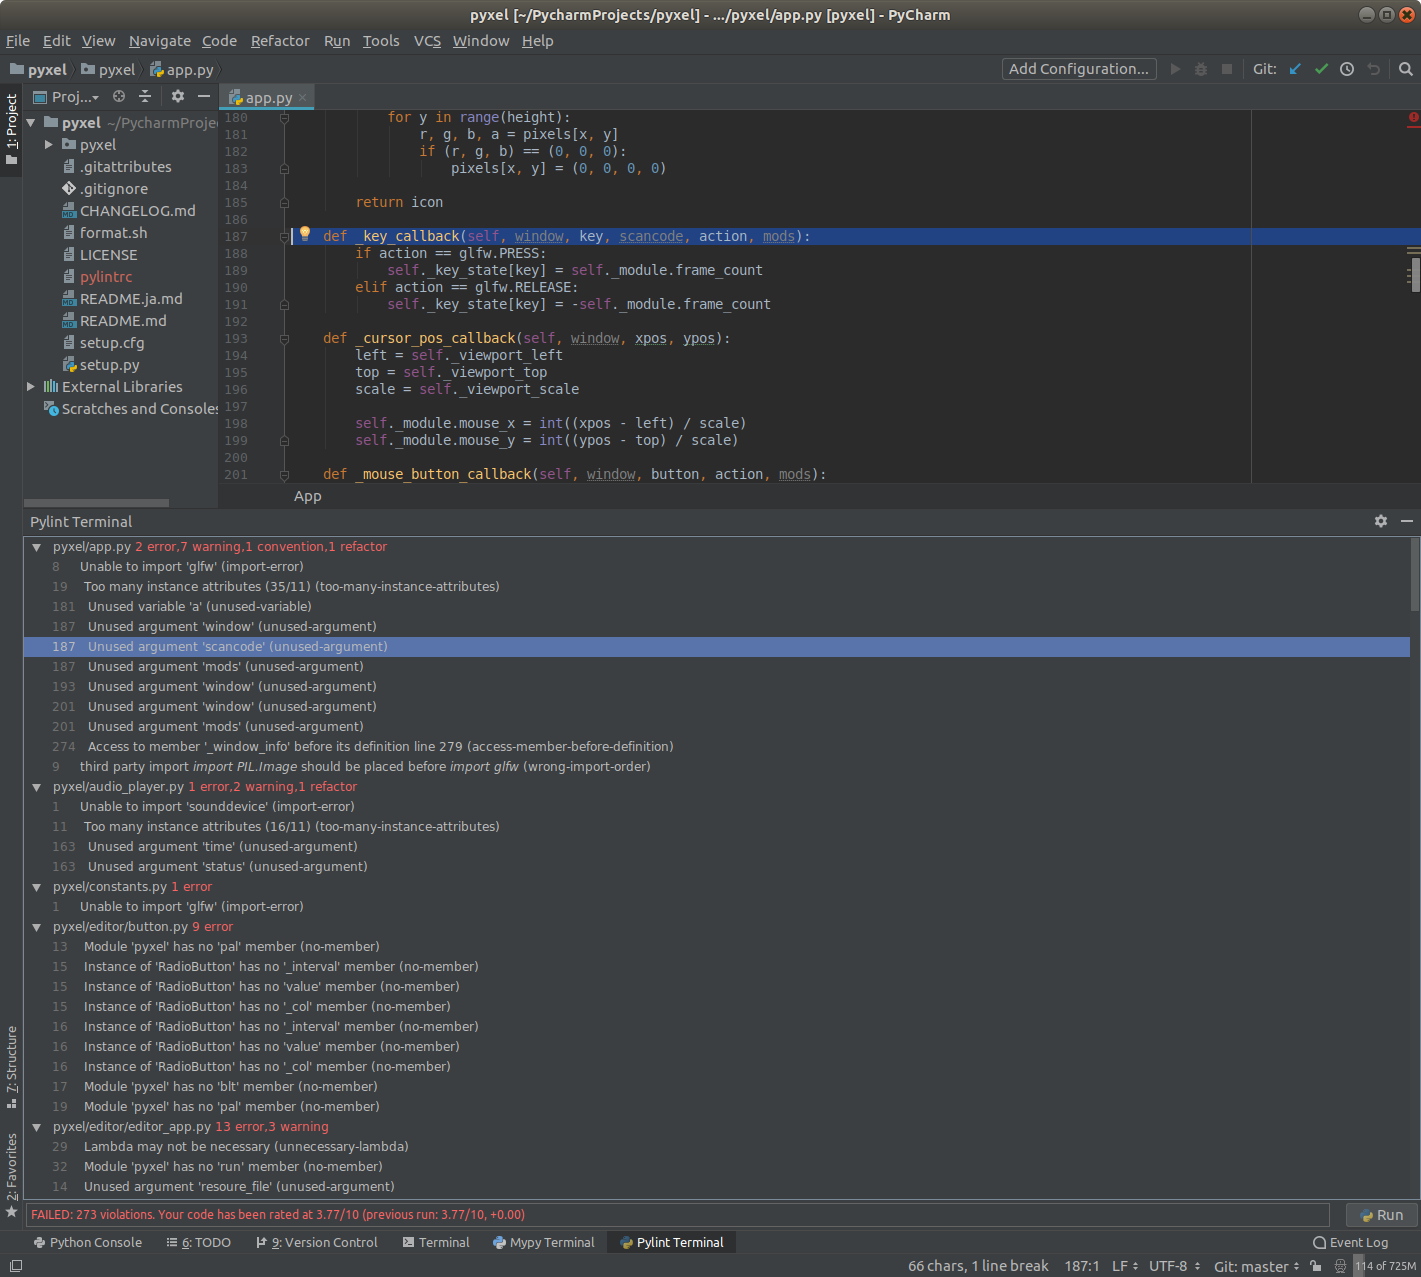
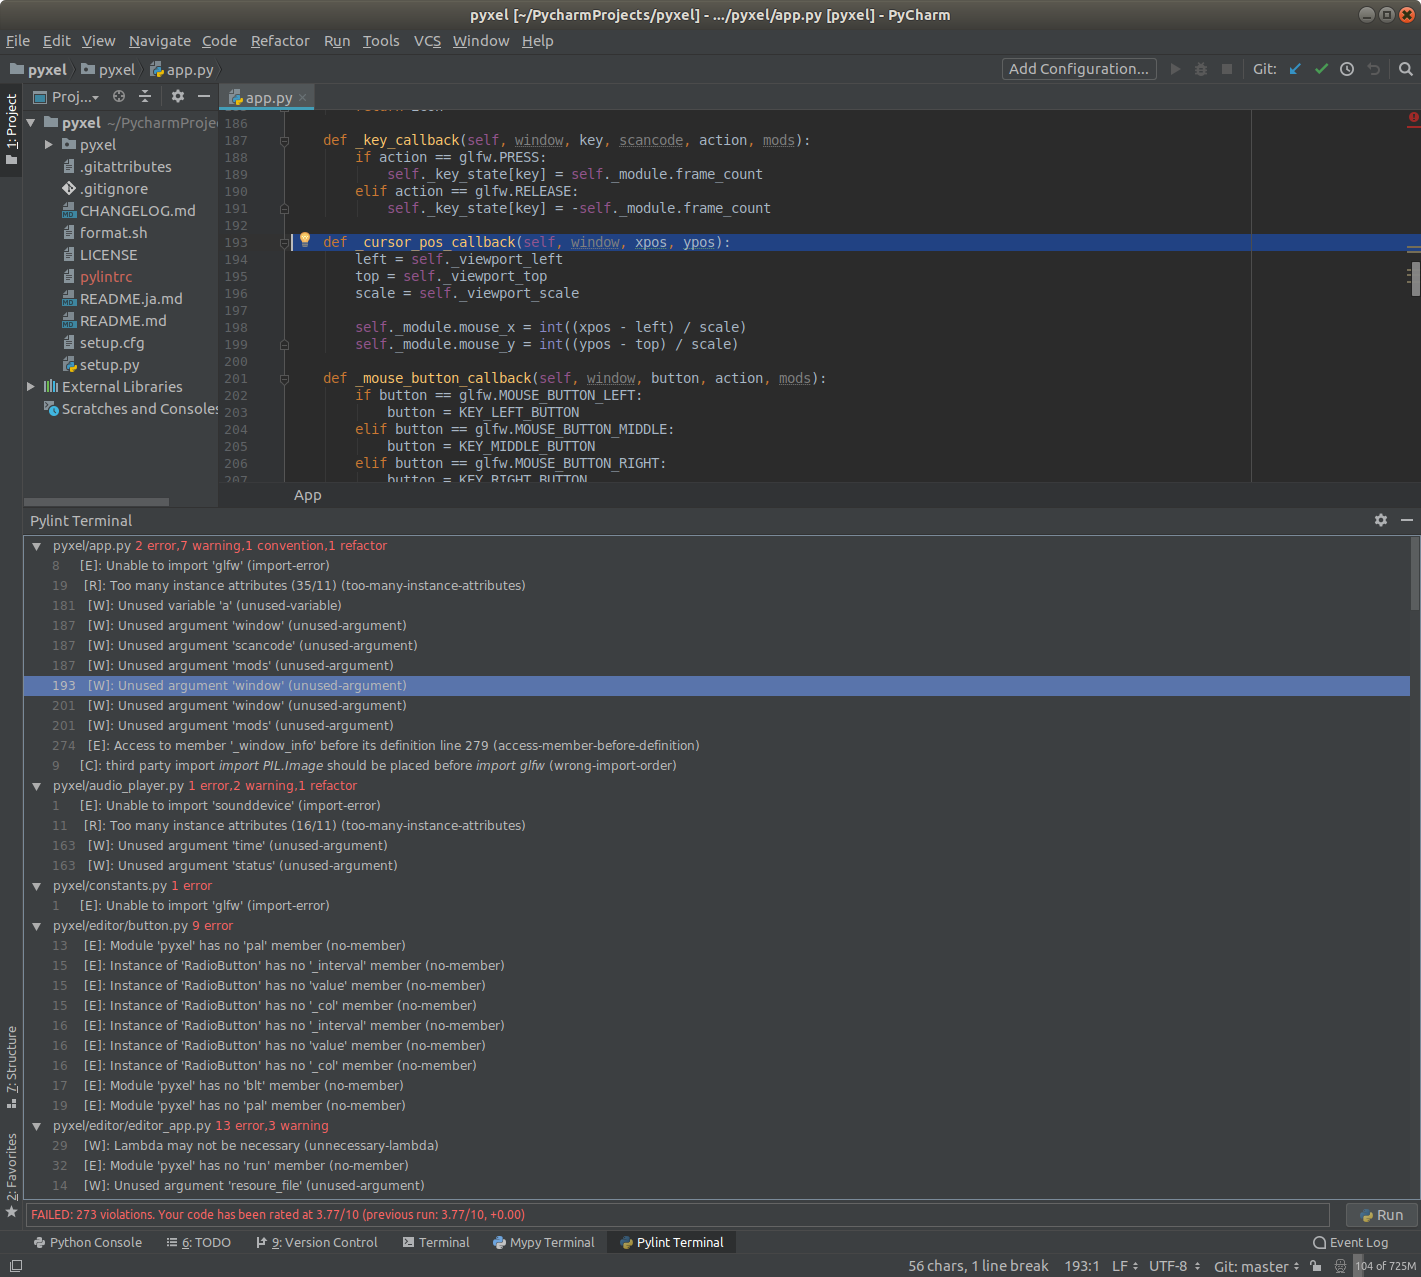
Added message category prefix

diff --git a/pylint-plugin/src/com/leinardi/plugins/pylint_plugin/PylintToolWindowFactory.java b/pylint-plugin/src/com/leinardi/plugins/pylint_plugin/PylintToolWindowFactory.java
@@ -12,7 +12,7 @@ import java.util.HashMap;
 
 public class PylintToolWindowFactory implements ToolWindowFactory, DumbAware {
     final public static String DEFAULT_PYLINT_PATH_SUFFIX = "";
-    final public static String DEFAULT_PYLINT_COMMAND = "pylint --msg-template='{path}:{line:d}: {C}: {msg} ({symbol})' .";
+    final public static String DEFAULT_PYLINT_COMMAND = "pylint --msg-template='{path}:{line:d}: {C}: [{C}]: {msg} ({symbol})' .";
     final public static String PYLINT_PLUGIN_ID = "Pylint Terminal";
     final public static HashMap<Project, PylintTerminal> instances = new HashMap<>();
 
